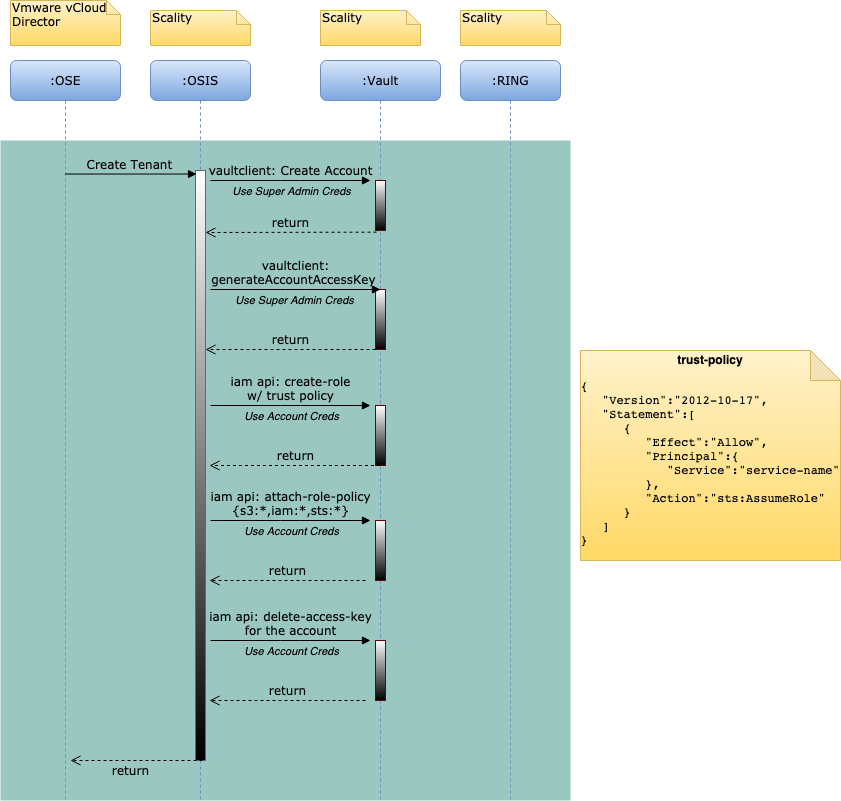
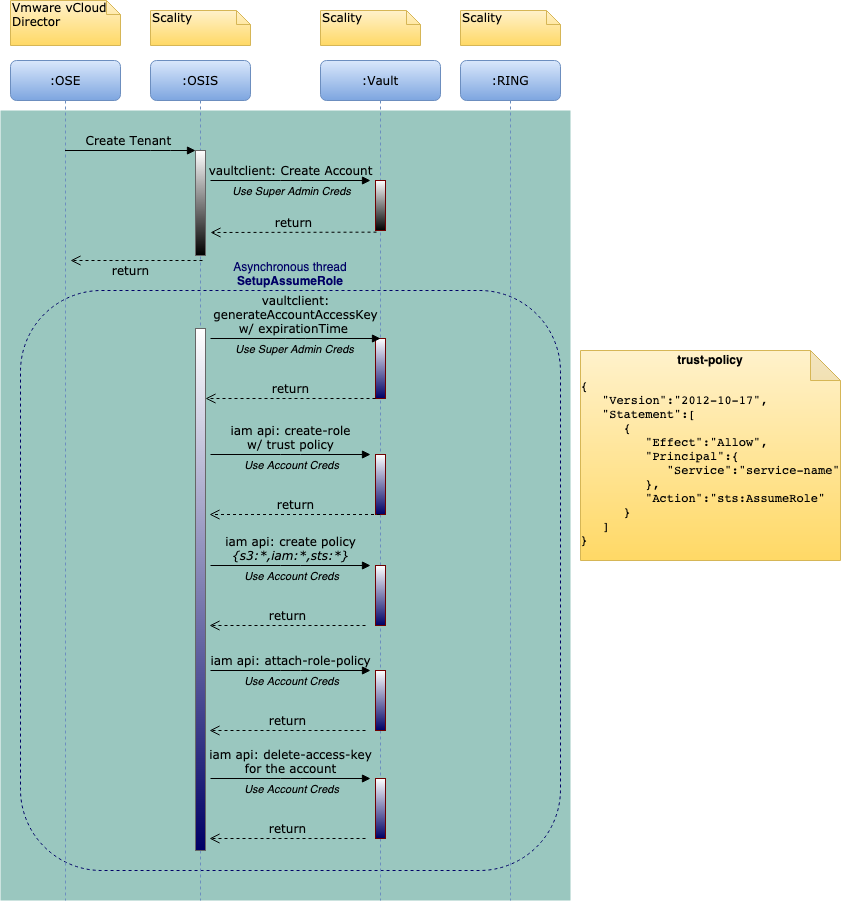
documentation:S3C-4180 User flow and Cache Design

diff --git a/Design.md b/Design.md
@@ -61,24 +61,7 @@ This API creates a Tenant on Vault.
     * Tenant Name is stored as Account Name  
     * `cd_tenant_ids` list as part of the request to be stored as a property of the vault account.
     * Account ID to be sent back as storage tenant ID to OSE
-1. `generate-account-access-key` for the account using vaultclient.
-1. Create a role using generated access key with
-   1. Role name : `osis` (So role-arn can be generated in the format `arn:aws:iam::[account-id]:role/osis`
-   1. Trust policy
-   ```json
-    {
-        "Version": "2012-10-17",
-        "Statement": [{
-            "Effect": "Allow",
-            "Principal": {
-                "Service": "service-name"
-            },
-            "Action": "sts:AssumeRole"
-            }]
-    }
-   ```
-1. `attach-role-policy` with s3 and iam full access to this role using generated access key
-1. `delete-access-key` for the account.
+1. [F00] will trigger an asynchronous thread to invoke the `SetupAssumeRole` subroutine. For more, see [SetupAssumeRole-subroutine](#SetupAssumeRole-subroutine).
 
 ### Create Tenant Example Activity Diagram
 ![Create Tenant](Design_Files/OSE-OSIS-Create-Tenant.png)
@@ -97,7 +80,8 @@ This API will list tenants on Vault.
 
 * <u>`markerCache`</u>
     * Every time `List Accounts` API is called by the OSIS, if `isTruncated` is `true` in the response, then `marker` value will be stored in the `markerCache` with the key as `(max-limit +1)`
-    * Each entry in the `markerCache` will be short-lived (implement may be only with 60 seconds)
+    * Each entry in the `markerCache` will be short-lived (implementation is for no more than 60 seconds).
+    * See [Cache-Design](#Cache-Design) for more information. 
 
 ### Query Tenants
 This API will query tenants on Vault using a `filter` parameter.
@@ -111,8 +95,9 @@ This API will query tenants on Vault using a `filter` parameter.
 1. Vault `list-accounts` api will be called using vaultclient with parameters
     1. `marker` (if exists from `markerCache`)
     1. `max-limit`
-    1.  `filterKey=cd_tenant_id%3D%3D<uuid1>` (Always the `filter` value from OSE will be in the format of `cd_tenant_id%3D%3D<uuid1>`)
-
+    1. `filterKey=cd_tenant_id%3D%3D<uuid1>` (The `filter` value from OSE will always be in the `cd_tenant_id%3D%3D<uuid1>` format).
+        * Cache design can be found [here](#Cache-Design).
+    
 
 ### Get Tenant
 This API will return the tenant on Vault with `tenantID`.
@@ -136,46 +121,97 @@ This API will update the existing storage tenant with the provided `cd_tenant_id
 
 1. Vault `update-account` api will be called using vaultclient with the provided `tenantID` as `AccountID` and `tenant` properties
 
+### `SetupAssumeRole` subroutine
+1. Use vaultclient to call `generate-account-access-key` with `durationSeconds` for the account.
+1. Create a role using the generated access key with:
+    1. Role name: `osis` (So role-arn can be generated in the format `arn:aws:iam::[account-id]:role/osis`)
+    1. Trust policy:
+   ```json
+    {
+        "Version": "2012-10-17",
+        "Statement": [{
+            "Effect": "Allow",
+            "Principal": {
+                "Service": "service-name"
+            },
+            "Action": "sts:AssumeRole"
+            }]
+    }
+   ```
+    * **Note:** 
+        *  This role is visible to and modifiable by the root account user or by
+           an IAM user with correct permissions (iam:list-roles,
+           iam:deleteRoles...). _Do not edit this role._ If this role has been 
+           edited, delete it. It will be automatically repopulated (See
+           [Assume-Role](#Assume-Role) for more).
+        
+1. Create an IAM managed policy `adminPolicy@[account-id]` with full S3 and IAM access using the generated access key.
+1. Invoke `attach-role-policy` to attach the policy `adminPolicy@[account-id]` to the `osis` role using the generated access key.
+1. Use `delete-access-key` to delete the account's access key.
+
 ## User APIs
 
-### Assume Role behavior for all User APIs
-* Use the tenant account credentials from the `assumeRoleCache` cache for the given account ID before each User API.
-* If the tenant account credentials were not found in `assumeRoleCache`, `AssumeRoleBackbeat` api needs to be called as Super Admin 
-* `assumeRoleCache` cache will be key-value pair of account_id and temporary credentials object respectively.
-    * `assumeRoleCache` cache will have TTL.
-    * Refresh the credentials periodically on the cache (AWS SDK `refresh()` will be used)
-    * _[ A detailed cache design needs to be added ]_
+### Common Behavior for All User APIs
+* Invoke the [Assume Role flow](#Assume-Role) before accessing any user APIs. 
+* If any user API returns an `Access Denied` error with the message: 
+  `user [RoleArn] don't have any policies, denied access`,  then invoke the 
+  `SetupAssumeRolePolicy` flow (See [Setup-Assume-Role-Policy](#Set-up-assume-role-policy).
 
+### Set Up Assume Role Policy
+1. Generate an access key for the account by using vaultclient to call `generate-account-access-key` with `durationSeconds`.
+1. Invoke IAM `get-policy` API for policy `adminPolicy@[account-id]` using the generated access key.
+1. If no policy is returned, use the generated access key to create an IAM managed policy `adminPolicy@[account-id]` with full s3 and iam access (`{ s3:*, iam:* }`).
+1. Invoke `attach-role-policy` to attach the policy `adminPolicy@[account-id]` to the `osis` role using the generated access key.
+1. `delete-access-key` for the account.
+
+### Assume Role
+* Before invoking a User API, you must call the `AssumeRole` flow. Use the tenant account credentials from `assumeRoleCache` for the given account ID before each User API.
+* If the tenant account credentials were not found in `assumeRoleCache`, the `AssumeRoleBackbeat` API must be called as superadmin and added to the `assumeRoleCache` cache.
+* If the `AssumeRoleBackbeat` API returns a `NoSuchEntity` error with a `Role does not exist` description, use vaultclient to invoke `get-account` with `accountID` to retrieve the `accountName` and then invoke the [`SetupAssumeRole` subroutine](#SetupAssumeRole-subroutine)).
+* `assumeRoleCache` cache will be a **[key, value]** pair of **[Role_Arn, Temporary_Credentials]** respectively.
+    * Each `assumeRoleCache` entry will have a 50-minute TTL (its session token is valid only for 60 minutes).
+    * When accessing credentials on the cache, refresh the credentials as well as `needsRefresh` (using AWS SDK `refresh()`), as they are subject to expiration.
+    * Cache design can be found [here](#Cache-Design).
+    
 ### Create User
 This API creates a user on Vault.
 1. `create-user` api will be called using assumed role credentials.
-    * `cd_user_id` is stored as username.
-1. `attach-policy` for the new user will be called using the assumed role credentials with full S3 and IAM access permissions.
+    * The tenant user's `cdUserId` is stored as `username` in the corresponding Vault user.
+    * The tenant user's `username`, `role` enum value, `emailAddress` and `cdTenantID` are stored in the Vault user path as `/<tenantUsername>/<roleEnumValue>/<email>/<cdTenantID>/`.
+1. The `get-policy` API will be called with the `userPolicy@[account-id]` policy name using assumed role credentials
+1. If the `get-policy` API does not return any policy, using the assumed role credentials creates an IAM managed policy with the `userPolicy@[account-id]` policy name with full S3 access.
+1. `attach-policy` for the new user will be called using the assumed role credentials and the policy arn formatted as `arn:aws:iam::[account-id]:policy/userPolicy@[account-id]`.
 1. `create-s3credentials` api will be called using assumed role credentials
 
 ### Create User Example Activity Diagram
 ![Create User](Design_Files/OSE-OSIS-Create-User.png)
 
-### Query Users
-This API will query users on Vault using a `filter` parameter.
-1. `list-users` api will be called using assumed role credentials.
-1. Filter the result users using the `filter` parameter in the request
-
 ### List Users
 This API will list users on Vault.
+1. The `list-users` API can be called with following parameters:
+    * `offset`: The start index of tenants to return (optional)
+    * `limit`: The maximum number of tenants to return (optional)
 1. `list-users` api will be called using assumed role credentials.
+    * If `offset` is present, return the `list-users` result by providing the `offset` value as the `marker` parameter.
 
-### Get User w/ userid
-This API will return the user.
-1. `get-user` api will be called using assumed role credentials with cd_user_id as username.
+### Query Users
+This API will query users on Vault using a `filter` parameter with the filters of `cd_tenant_id` and `display_name`.
+1. Extract the `cd_tenant_id` filter from the `filter` parameter to call `list-accounts` using vaultclient to retrieve the `accountID`.
+1. Use `accountID` to generate assumed role credentials for that particular account.
+1. Extract the `displayname` value from the `filter` parameter.
+1. The `list-users` API will be called using assumed role credentials with the `path-prefix` as `/<display_name>/`.
 
-### Get User w/ canonical ID
+### Get User with User ID
 This API will return the user.
-1. `get-user` api will be called using assumed role credentials with canonical_id as canonical_user_id?
+1. The `get-user` API will be called using assumed role credentials, with the tenant user's user ID as the username.
+
+### Get User with Canonical ID
+This API will return the user.
+1. The `get-user` API will be called using assumed role credentials with canonical_id as username
 
 ### Head User
 This API will return if user exists or not.
-1. `get-user` api will be called using assumed role credentials with cd_user_id as username.
+1. The `get-user` API will be called using assumed-role credentials, with the tenant user's user ID as the username.
 1. Return `true` or `false` if result is returned or not respectively.
 
 ### Delete User
@@ -187,7 +223,7 @@ This API will enable or disable user on Vault.
 1. `updateAccessKey` api will be called using assumed role credentials to disable/enable access keys for the user.
 
 ## S3 Credential APIs
-### Common behavior for all S3 Credential APIs will be same as User APIs ([check here](#Assume-Role-behavior-for-all-User-APIs))
+### S3 Credential APIs Have Common Behavior with [User APIs](#Common-behavior-for-all-User-APIs)
 
 
 ### Create S3 Credential
@@ -253,3 +289,23 @@ Get the platform usage of global (without query parameter), tenant (with tenant_
 ## S3 Operations Example Activity Diagram
 ![S3 Object operations](Design_Files/OSE-OSIS-Object-operations.png)
 
+## Cache Design
+
+1. Implement caches using the following principles:
+    1. The cache must have a maximum capacity.
+    1. The cache must have a Least Recently Used (LRU) eviction policy.
+    1. Each cache entry must have an expiration time (TTL). 
+        1. Cache `put` call must include `ttl` for the entry.
+        1. Use `ScheduledFuture` in Java for cache entry removal after TTL.
+    1. Caches must handle concurrency.
+        1. Use `Read locks` for `get` calls and `write locks` for `put` calls.
+    1. Caches can be configured using the following properties in `application.properties`:
+       1. `ttl` for invalidating cache entries
+       1. `maxCapacity` for maximum number of entries in the cache 
+       1. A flag to enable or disable the cache
+
+1. Implement the following caches for this project:
+    1. `ListAccountsMarkerCache` for the `List Tenants` and `Query Tenants` APIs
+        * `key` : `offset` and `value` : `marker`
+    1. `AssumeRoleCache` for all the `User` and `S3 Credential` APIs
+        * `key` : `RoleArn` and `value` : `Credentials`
